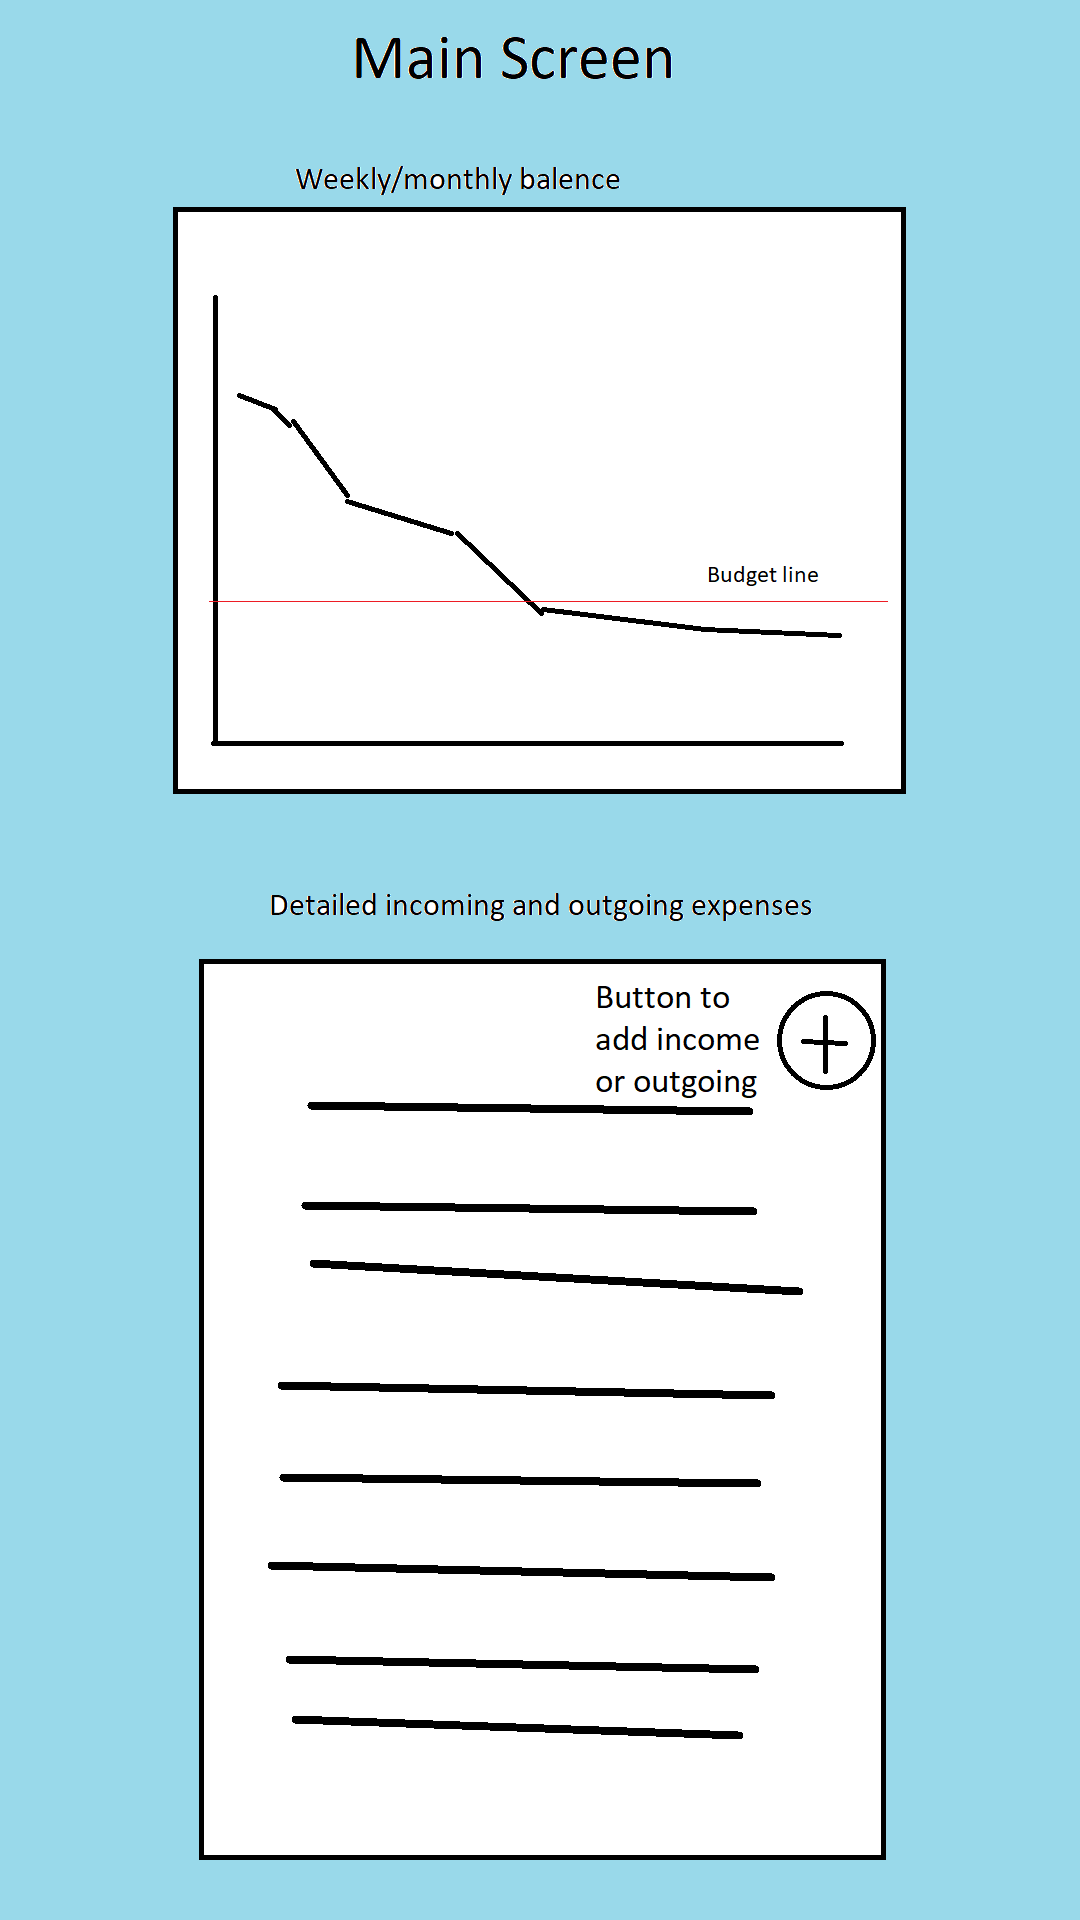
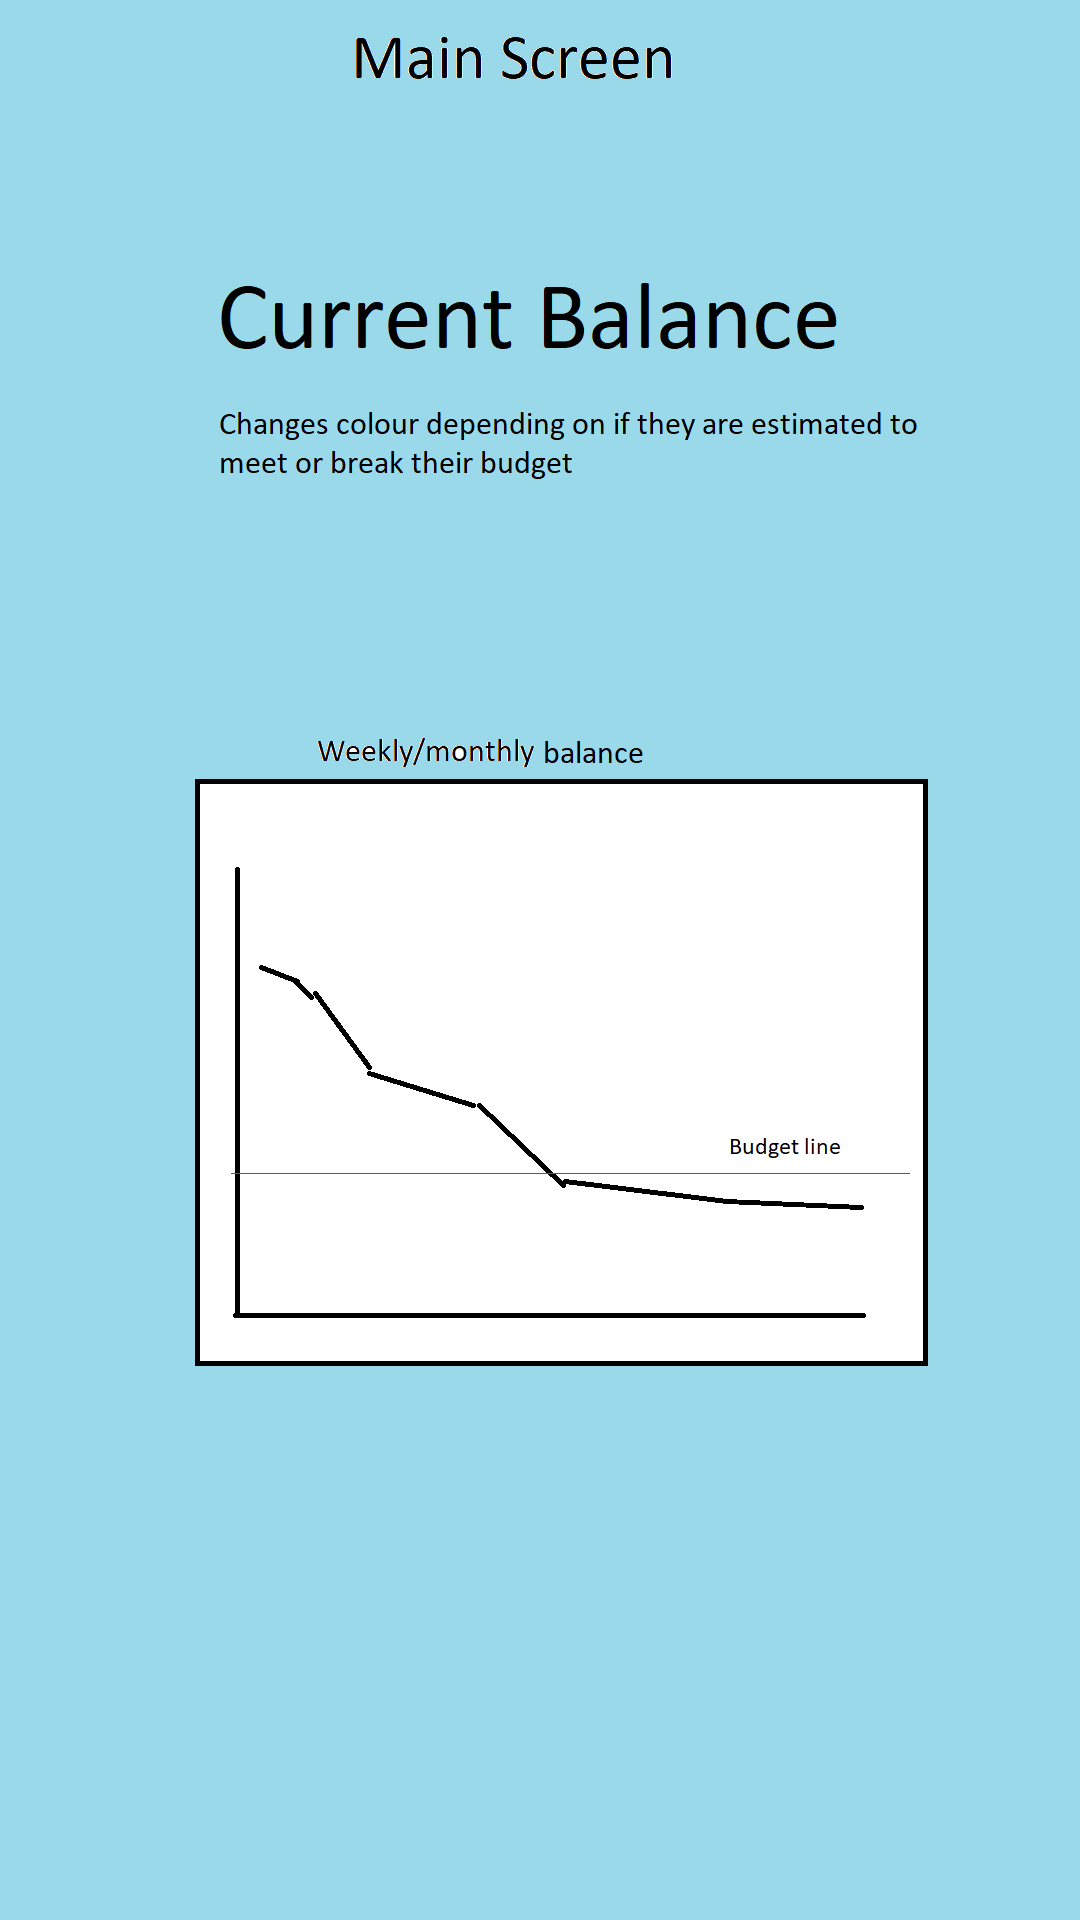
Changed what the main page looks like and added detailed page

diff --git a/pages/Pictures.js b/pages/Pictures.js
@@ -2,7 +2,8 @@ var pictures = Vue.component('pictures', {
   template: 
   `
   <v-container fluid>
-  <h1>Pictures</h1>
+  <h1>Mock screens for the app</h1>
+  <p>Tap on one of the images, then swipe either way to scroll between them</p>
   <v-layout>
   <v-flex xs12 sm6 offset-sm3>
     <v-card>
@@ -54,7 +55,7 @@ v-touch="{
       imageDir: "./images/",
       imagePopup: false,
       selectedImage: null,
-      images: ["main-screen.png", "add-expense.png", "add-income.png", "add-subscription.png", "set-budget.png"],
+      images: ["main-screen.png", "detailed-expenses.png", "add-expense.png", "add-income.png", "add-subscription.png", "set-budget.png"],
       currentImage: 0,
       maxImageHeight: 0,
       maxImageWidth: 0
@@ -63,7 +64,6 @@ v-touch="{
   watch: {
     window: {
       handler() {
-        console.log("changing max height to " + window.innerHeight)
         this.maxImageHeight = window.innerHeight * 0.90;
         this.maxImageWidth = this.maxImageHeight * (9/16);
       },
